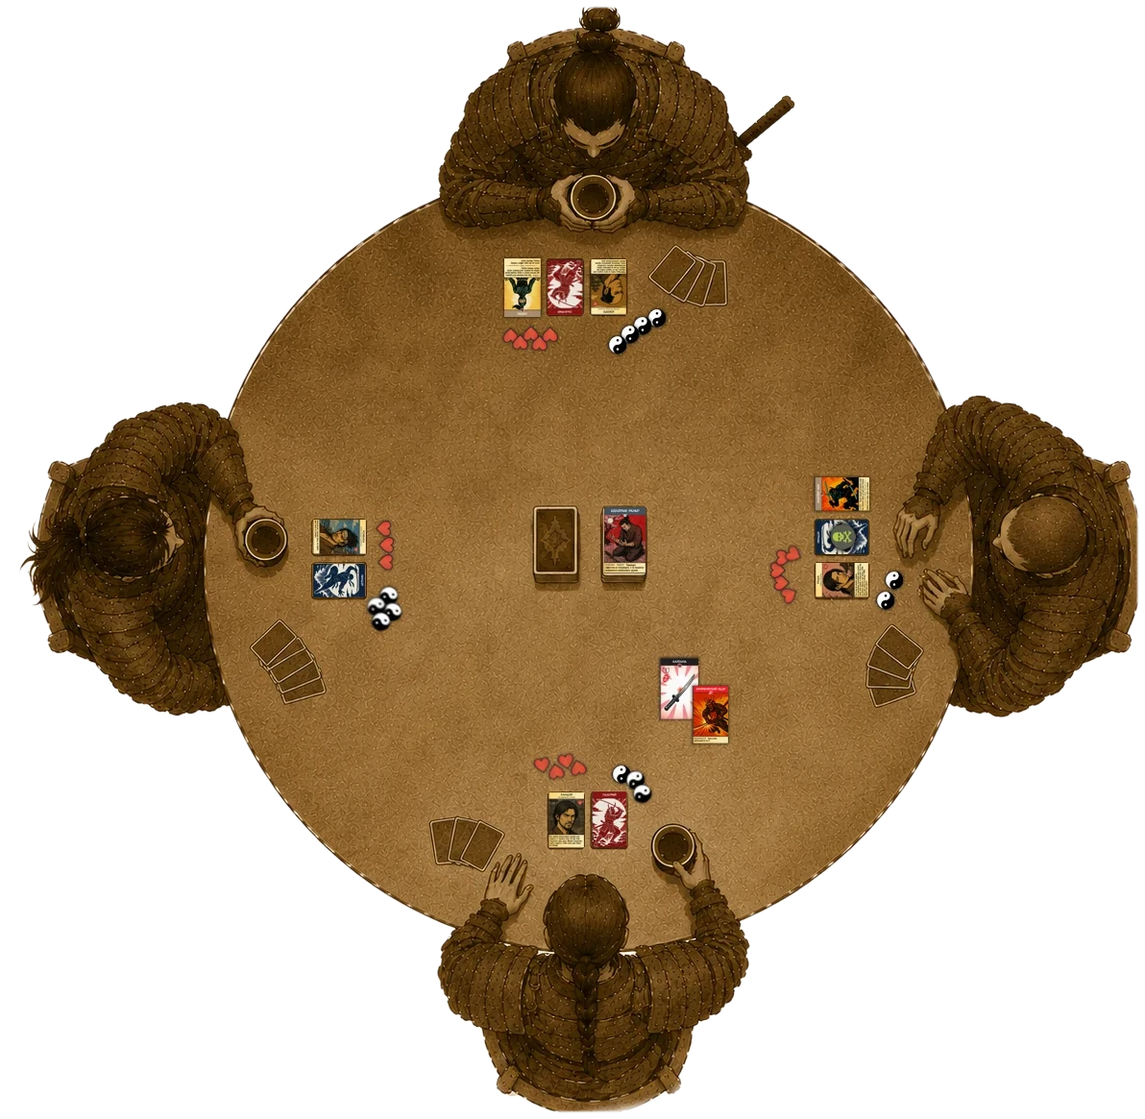
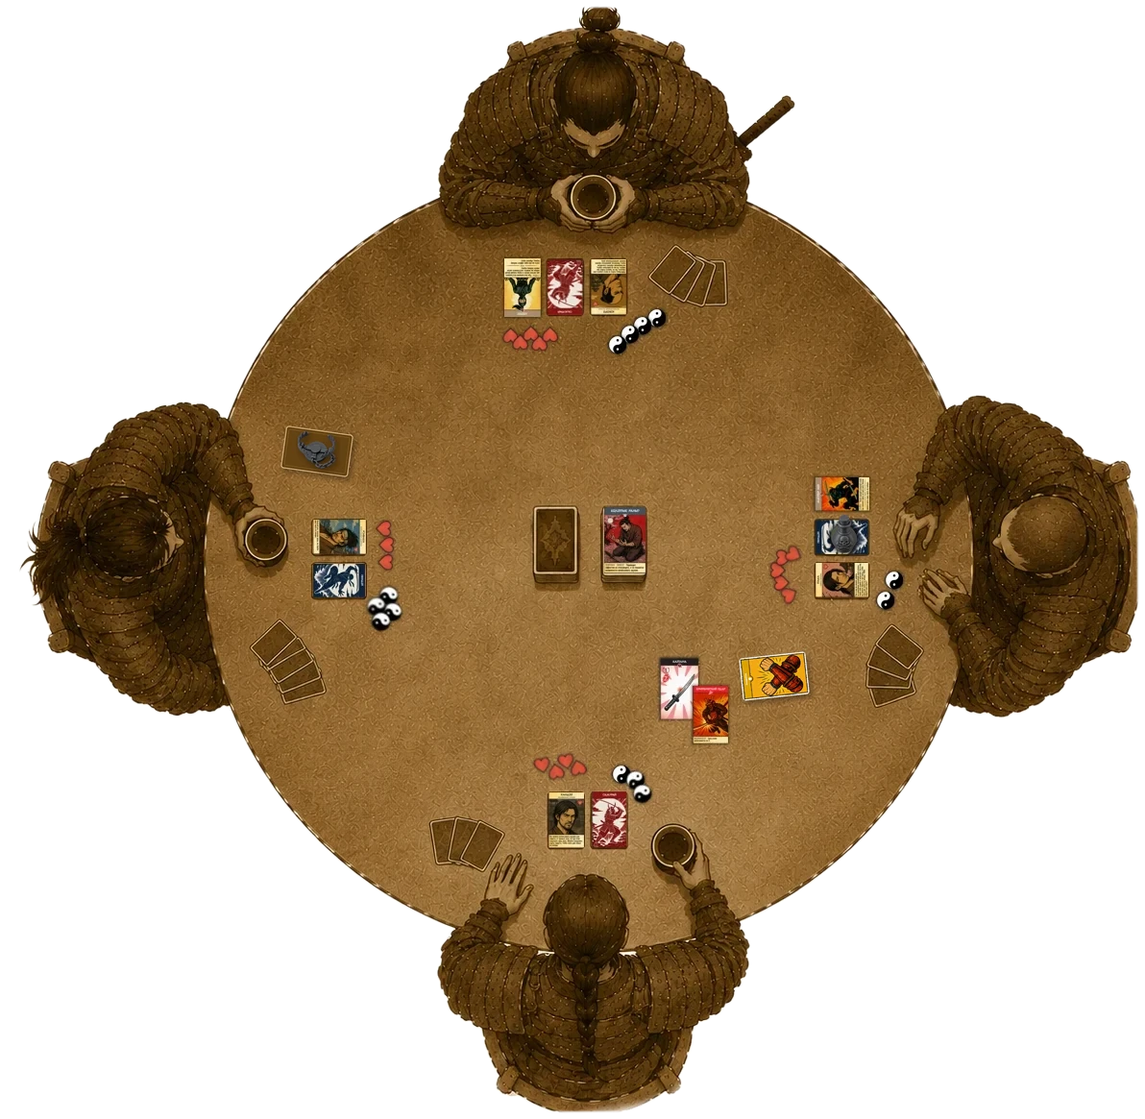
Стол: бутылка яда, карта защиты и ловушка с капканом дорисованы на картинке
Жетон яда на карте роли правого игрока заменён фигуркой-бутылкой (в игре
это 3D-фигурка), подпись «Яд». У него же рядом с выложенной атакой лежит
«Защита» (превью карты 48). У левого игрока — ловушка: рубашка с фигуркой
капкана. Фигурки сгенерированы /img с альфой, смонтированы поверх фото
в 4× с поворотом до уменьшения; исходник без дорисовок —
rules/media/obsolete/table-v1.webp. Текст под рисунком обновлён: без
примера осталась только аура.

Changed region(s): [[0.6208, 0.5871, 0.7139, 0.6489], [0.2483, 0.3708, 0.3104, 0.4326], [0.7139, 0.4635, 0.745, 0.4944]]

diff --git a/rules/rules.html b/rules/rules.html
@@ -90,10 +90,10 @@
           <h2 class="chapter-title">Стол<span class="kanji" aria-hidden="true">卓</span></h2>
 <p>Так выглядит стол в середине партии на четверых: у каждого игрока перед собой своя зона, посреди стола — общие стопки. Игроки сидят через одного, поэтому напротив — союзник, а по бокам — противники.</p>
 <figure class="table-figure">
-        <div class="table-pic"><img src="media/table.webp" alt="" width="1192" height="1165"><svg class="table-overlay" viewBox="0 0 1192 1165" xmlns="http://www.w3.org/2000/svg" aria-hidden="true"><defs><marker id="tf-arrow" viewBox="0 0 10 10" refX="9" refY="5" markerWidth="5" markerHeight="5" orient="auto-start-reverse"><path d="M0,0 L10,5 L0,10 z"/></marker></defs><g class="tf-lines"><line x1="480" y1="300" x2="515" y2="300"/><line x1="598" y1="402" x2="593" y2="335"/><line x1="818" y1="357" x2="760" y2="315"/><line x1="408" y1="473" x2="365" y2="532"/><line x1="521" y1="523" x2="560" y2="565"/><line x1="692" y1="513" x2="672" y2="530"/><line x1="815" y1="463" x2="855" y2="500"/><line x1="636" y1="715" x2="688" y2="712"/><line x1="476" y1="793" x2="565" y2="800"/><line x1="704" y1="812" x2="683" y2="812"/></g><g class="tf-labels"><g transform="translate(376,277)"><rect width="104" height="46" rx="8"/><text class="tf-txt" x="52.0" y="24.0">Стойка</text></g><g transform="translate(523,402)"><rect width="154" height="46" rx="8"/><text class="tf-txt" x="77.0" y="24.0">Карта роли</text></g><g transform="translate(810,357)"><rect width="79" height="46" rx="8"/><text class="tf-txt" x="39.5" y="24.0">Рука</text></g><g transform="translate(360,427)"><rect width="129" height="46" rx="8"/><text class="tf-txt" x="64.5" y="24.0">Персонаж</text></g><g transform="translate(448,477)"><rect width="104" height="46" rx="8"/><text class="tf-txt" x="52.0" y="24.0">Колода</text></g><g transform="translate(674,467)"><rect width="92" height="46" rx="8"/><text class="tf-txt" x="46.0" y="24.0">Сброс</text></g><g transform="translate(732,417)"><rect width="116" height="46" rx="8"/><text class="tf-txt" x="58.0" y="24.0">Эффекты</text></g><g transform="translate(444,682)"><rect width="191" height="76" rx="8"/><text class="tf-txt" x="95.5" y="24.0">Атака: оружие</text><text class="tf-txt" x="95.5" y="54.0">+ модификатор</text></g><g transform="translate(384,767)"><rect width="92" height="46" rx="8"/><text class="tf-txt" x="46.0" y="24.0">Жизни</text></g><g transform="translate(704,789)"><rect width="191" height="46" rx="8"/><text class="tf-txt" x="95.5" y="24.0">Победные очки</text></g></g><g class="tf-tags"><g transform="translate(802,127)"><rect width="116" height="46" rx="23"/><text x="58.0" y="24.0">Самурай</text></g><g transform="translate(1028,372)"><rect width="104" height="46" rx="23"/><text x="52.0" y="24.0">Ниндзя</text></g><g transform="translate(702,1037)"><rect width="116" height="46" rx="23"/><text x="58.0" y="24.0">Самурай</text></g><g transform="translate(88,377)"><rect width="104" height="46" rx="23"/><text x="52.0" y="24.0">Ниндзя</text></g></g></svg></div>
+        <div class="table-pic"><img src="media/table.webp" alt="" width="1192" height="1165"><svg class="table-overlay" viewBox="0 0 1192 1165" xmlns="http://www.w3.org/2000/svg" aria-hidden="true"><defs><marker id="tf-arrow" viewBox="0 0 10 10" refX="9" refY="5" markerWidth="5" markerHeight="5" orient="auto-start-reverse"><path d="M0,0 L10,5 L0,10 z"/></marker></defs><g class="tf-lines"><line x1="480" y1="300" x2="515" y2="300"/><line x1="598" y1="402" x2="593" y2="335"/><line x1="818" y1="357" x2="760" y2="315"/><line x1="340" y1="421" x2="335" y2="448"/><line x1="430" y1="473" x2="365" y2="532"/><line x1="521" y1="523" x2="560" y2="565"/><line x1="692" y1="513" x2="672" y2="530"/><line x1="815" y1="463" x2="855" y2="500"/><line x1="827" y1="545" x2="862" y2="552"/><line x1="825" y1="673" x2="815" y2="688"/><line x1="636" y1="715" x2="688" y2="712"/><line x1="476" y1="793" x2="565" y2="800"/><line x1="704" y1="812" x2="683" y2="812"/></g><g class="tf-labels"><g transform="translate(376,277)"><rect width="104" height="46" rx="8"/><text class="tf-txt" x="52.0" y="24.0">Стойка</text></g><g transform="translate(523,402)"><rect width="154" height="46" rx="8"/><text class="tf-txt" x="77.0" y="24.0">Карта роли</text></g><g transform="translate(810,357)"><rect width="79" height="46" rx="8"/><text class="tf-txt" x="39.5" y="24.0">Рука</text></g><g transform="translate(287,375)"><rect width="116" height="46" rx="8"/><text class="tf-txt" x="58.0" y="24.0">Ловушка</text></g><g transform="translate(390,427)"><rect width="129" height="46" rx="8"/><text class="tf-txt" x="64.5" y="24.0">Персонаж</text></g><g transform="translate(448,477)"><rect width="104" height="46" rx="8"/><text class="tf-txt" x="52.0" y="24.0">Колода</text></g><g transform="translate(674,467)"><rect width="92" height="46" rx="8"/><text class="tf-txt" x="46.0" y="24.0">Сброс</text></g><g transform="translate(732,417)"><rect width="116" height="46" rx="8"/><text class="tf-txt" x="58.0" y="24.0">Эффекты</text></g><g transform="translate(773,517)"><rect width="54" height="46" rx="8"/><text class="tf-txt" x="27.0" y="24.0">Яд</text></g><g transform="translate(788,627)"><rect width="104" height="46" rx="8"/><text class="tf-txt" x="52.0" y="24.0">Защита</text></g><g transform="translate(444,682)"><rect width="191" height="76" rx="8"/><text class="tf-txt" x="95.5" y="24.0">Атака: оружие</text><text class="tf-txt" x="95.5" y="54.0">+ модификатор</text></g><g transform="translate(384,767)"><rect width="92" height="46" rx="8"/><text class="tf-txt" x="46.0" y="24.0">Жизни</text></g><g transform="translate(704,789)"><rect width="191" height="46" rx="8"/><text class="tf-txt" x="95.5" y="24.0">Победные очки</text></g></g><g class="tf-tags"><g transform="translate(802,127)"><rect width="116" height="46" rx="23"/><text x="58.0" y="24.0">Самурай</text></g><g transform="translate(1028,372)"><rect width="104" height="46" rx="23"/><text x="52.0" y="24.0">Ниндзя</text></g><g transform="translate(702,1037)"><rect width="116" height="46" rx="23"/><text x="58.0" y="24.0">Самурай</text></g><g transform="translate(88,377)"><rect width="104" height="46" rx="23"/><text x="52.0" y="24.0">Ниндзя</text></g></g></svg></div>
         <figcaption>Стол на четверых: самурай — ниндзя — самурай — ниндзя.</figcaption>
       </figure>
-<p class="table-note">Ловушка кладётся перед собой рубашкой вверх с фигуркой на ней, аура — перед собой в открытую; на этой картинке их нет.</p>
+<p class="table-note">Ловушка кладётся перед собой рубашкой вверх, сверху — фигурка капкана; яд отмечают фигуркой-бутылкой на карте роли. Аура кладётся перед собой в открытую; на этой картинке её нет.</p>
         </div>
       </section>
       </div>

diff --git a/rules/rules-en.html b/rules/rules-en.html
@@ -90,10 +90,10 @@
           <h2 class="chapter-title">The Table<span class="kanji" aria-hidden="true">卓</span></h2>
 <p>This is what a four-player table looks like mid-game: every player has their own area in front of them, and the shared piles sit in the middle. Seats alternate, so the player opposite is your ally and the players on either side are enemies.</p>
 <figure class="table-figure">
-        <div class="table-pic"><img src="media/table.webp" alt="" width="1192" height="1165"><svg class="table-overlay" viewBox="0 0 1192 1165" xmlns="http://www.w3.org/2000/svg" aria-hidden="true"><defs><marker id="tf-arrow" viewBox="0 0 10 10" refX="9" refY="5" markerWidth="5" markerHeight="5" orient="auto-start-reverse"><path d="M0,0 L10,5 L0,10 z"/></marker></defs><g class="tf-lines"><line x1="480" y1="300" x2="515" y2="300"/><line x1="598" y1="402" x2="593" y2="335"/><line x1="818" y1="357" x2="760" y2="315"/><line x1="408" y1="473" x2="365" y2="532"/><line x1="521" y1="523" x2="560" y2="565"/><line x1="692" y1="513" x2="672" y2="530"/><line x1="815" y1="463" x2="855" y2="500"/><line x1="642" y1="715" x2="688" y2="712"/><line x1="470" y1="793" x2="565" y2="800"/><line x1="698" y1="812" x2="683" y2="812"/></g><g class="tf-labels"><g transform="translate(376,277)"><rect width="104" height="46" rx="8"/><text class="tf-txt" x="52.0" y="24.0">Stance</text></g><g transform="translate(530,402)"><rect width="141" height="46" rx="8"/><text class="tf-txt" x="70.5" y="24.0">Role card</text></g><g transform="translate(810,357)"><rect width="79" height="46" rx="8"/><text class="tf-txt" x="39.5" y="24.0">Hand</text></g><g transform="translate(354,427)"><rect width="141" height="46" rx="8"/><text class="tf-txt" x="70.5" y="24.0">Character</text></g><g transform="translate(460,477)"><rect width="79" height="46" rx="8"/><text class="tf-txt" x="39.5" y="24.0">Deck</text></g><g transform="translate(662,467)"><rect width="116" height="46" rx="8"/><text class="tf-txt" x="58.0" y="24.0">Discard</text></g><g transform="translate(732,417)"><rect width="116" height="46" rx="8"/><text class="tf-txt" x="58.0" y="24.0">Effects</text></g><g transform="translate(438,682)"><rect width="203" height="76" rx="8"/><text class="tf-txt" x="101.5" y="24.0">Attack: weapon</text><text class="tf-txt" x="101.5" y="54.0">+ modifier</text></g><g transform="translate(390,767)"><rect width="79" height="46" rx="8"/><text class="tf-txt" x="39.5" y="24.0">Life</text></g><g transform="translate(698,789)"><rect width="203" height="46" rx="8"/><text class="tf-txt" x="101.5" y="24.0">Victory points</text></g></g><g class="tf-tags"><g transform="translate(802,127)"><rect width="116" height="46" rx="23"/><text x="58.0" y="24.0">Samurai</text></g><g transform="translate(1034,372)"><rect width="92" height="46" rx="23"/><text x="46.0" y="24.0">Ninja</text></g><g transform="translate(702,1037)"><rect width="116" height="46" rx="23"/><text x="58.0" y="24.0">Samurai</text></g><g transform="translate(94,377)"><rect width="92" height="46" rx="23"/><text x="46.0" y="24.0">Ninja</text></g></g></svg></div>
+        <div class="table-pic"><img src="media/table.webp" alt="" width="1192" height="1165"><svg class="table-overlay" viewBox="0 0 1192 1165" xmlns="http://www.w3.org/2000/svg" aria-hidden="true"><defs><marker id="tf-arrow" viewBox="0 0 10 10" refX="9" refY="5" markerWidth="5" markerHeight="5" orient="auto-start-reverse"><path d="M0,0 L10,5 L0,10 z"/></marker></defs><g class="tf-lines"><line x1="480" y1="300" x2="515" y2="300"/><line x1="598" y1="402" x2="593" y2="335"/><line x1="818" y1="357" x2="760" y2="315"/><line x1="340" y1="421" x2="335" y2="448"/><line x1="430" y1="473" x2="365" y2="532"/><line x1="521" y1="523" x2="560" y2="565"/><line x1="692" y1="513" x2="672" y2="530"/><line x1="815" y1="463" x2="855" y2="500"/><line x1="852" y1="550" x2="862" y2="552"/><line x1="825" y1="673" x2="815" y2="688"/><line x1="642" y1="715" x2="688" y2="712"/><line x1="470" y1="793" x2="565" y2="800"/><line x1="698" y1="812" x2="683" y2="812"/></g><g class="tf-labels"><g transform="translate(376,277)"><rect width="104" height="46" rx="8"/><text class="tf-txt" x="52.0" y="24.0">Stance</text></g><g transform="translate(530,402)"><rect width="141" height="46" rx="8"/><text class="tf-txt" x="70.5" y="24.0">Role card</text></g><g transform="translate(810,357)"><rect width="79" height="46" rx="8"/><text class="tf-txt" x="39.5" y="24.0">Hand</text></g><g transform="translate(306,375)"><rect width="79" height="46" rx="8"/><text class="tf-txt" x="39.5" y="24.0">Trap</text></g><g transform="translate(384,427)"><rect width="141" height="46" rx="8"/><text class="tf-txt" x="70.5" y="24.0">Character</text></g><g transform="translate(460,477)"><rect width="79" height="46" rx="8"/><text class="tf-txt" x="39.5" y="24.0">Deck</text></g><g transform="translate(662,467)"><rect width="116" height="46" rx="8"/><text class="tf-txt" x="58.0" y="24.0">Discard</text></g><g transform="translate(732,417)"><rect width="116" height="46" rx="8"/><text class="tf-txt" x="58.0" y="24.0">Effects</text></g><g transform="translate(748,517)"><rect width="104" height="46" rx="8"/><text class="tf-txt" x="52.0" y="24.0">Poison</text></g><g transform="translate(782,627)"><rect width="116" height="46" rx="8"/><text class="tf-txt" x="58.0" y="24.0">Defense</text></g><g transform="translate(438,682)"><rect width="203" height="76" rx="8"/><text class="tf-txt" x="101.5" y="24.0">Attack: weapon</text><text class="tf-txt" x="101.5" y="54.0">+ modifier</text></g><g transform="translate(390,767)"><rect width="79" height="46" rx="8"/><text class="tf-txt" x="39.5" y="24.0">Life</text></g><g transform="translate(698,789)"><rect width="203" height="46" rx="8"/><text class="tf-txt" x="101.5" y="24.0">Victory points</text></g></g><g class="tf-tags"><g transform="translate(802,127)"><rect width="116" height="46" rx="23"/><text x="58.0" y="24.0">Samurai</text></g><g transform="translate(1034,372)"><rect width="92" height="46" rx="23"/><text x="46.0" y="24.0">Ninja</text></g><g transform="translate(702,1037)"><rect width="116" height="46" rx="23"/><text x="58.0" y="24.0">Samurai</text></g><g transform="translate(94,377)"><rect width="92" height="46" rx="23"/><text x="46.0" y="24.0">Ninja</text></g></g></svg></div>
         <figcaption>A table for four: samurai — ninja — samurai — ninja.</figcaption>
       </figure>
-<p class="table-note">A trap is placed face down in front of you with the figure on top; an aura goes face up in front of you. Neither is shown in this picture.</p>
+<p class="table-note">A trap is placed face down in front of you with the trap figure on top; poison is marked by a bottle figure on the role card. An aura goes face up in front of you; it is not shown in this picture.</p>
         </div>
       </section>
       </div>

diff --git a/tools/table_fig.py b/tools/table_fig.py
@@ -15,17 +15,24 @@ W, H = 1192, 1165
 # стрелки короткие. Ориентиры (пиксели картинки): круг стола — центр (600,585),
 # радиус ~375; верхний игрок: стойка (540,300), роль (593,300), сердца (555,350),
 # очки (665,345), рука (720,290); левый: персонаж (355,555), роль (355,605);
-# правый: столбик эффектов (878,515…605); нижний: сердца (585,800),
-# очки (655,810), персонаж (587,855); центр: колода (578,565), сброс (650,565);
-# атака (705,715)+(740,740).
+# правый: столбик эффектов (878,515…605), бутылка яда на карте роли (879,556),
+# карта защиты (806,704); нижний: сердца (585,800), очки (655,810), персонаж
+# (587,855); центр: колода (578,565), сброс (650,565); атака (705,715)+(740,740);
+# ловушка левого игрока — рубашка с капканом (330,470).
+# Бутылка, капкан и карта защиты дорисованы поверх фото (rules/media/obsolete/
+# table-v1.webp — исходник без них) скриптом-монтажом: фигурки — /img, карта —
+# превью 48.webp; слои строились в 4× и поворачивались до уменьшения.
 LABELS = [
     ('stance',    (428, 300), (515, 300)),    # слева от стойки, у кромки
     ('role',      (600, 425), (593, 335)),    # под картами верхнего игрока
     ('hand',      (850, 380), (760, 315)),    # справа-снизу от веера
-    ('character', (425, 450), (365, 532)),    # верхняя левая четверть
+    ('trap',      (345, 398), (335, 448)),    # над ловушкой левого игрока
+    ('character', (455, 450), (365, 532)),    # верхняя левая четверть
     ('deck',      (500, 500), (560, 565)),    # слева-сверху от колоды
     ('discard',   (720, 490), (672, 530)),    # справа-сверху от сброса
     ('effect',    (790, 440), (855, 500)),    # над столбиком эффектов
+    ('poison',    (800, 540), (862, 552)),    # бутылка яда на карте роли
+    ('defense',   (840, 650), (815, 688)),    # карта защиты у атаки
     ('attack',    (540, 720), (688, 712)),    # слева от выложенной атаки
     ('life',      (430, 790), (565, 800)),    # слева от сердец нижнего игрока
     ('vp',        (800, 812), (683, 812)),    # справа от очков нижнего игрока
@@ -38,6 +45,7 @@ TXT = {
   'stance': 'Стойка', 'role': 'Карта роли', 'deck': 'Колода', 'character': 'Персонаж',
   'hand': 'Рука', 'discard': 'Сброс', 'effect': 'Эффекты', 'life': 'Жизни',
   'vp': 'Победные очки', 'attack': 'Атака: оружие|+ модификатор',
+  'poison': 'Яд', 'defense': 'Защита', 'trap': 'Ловушка',
   'samurai': 'Самурай', 'ninja': 'Ниндзя',
   'h4': 'Стол',
   'intro': 'Так выглядит стол в середине партии на четверых: у каждого игрока перед собой своя зона, посреди стола — общие стопки. Игроки сидят через одного, поэтому напротив — союзник, а по бокам — противники.',
@@ -53,13 +61,14 @@ TXT = {
    ('discard',   'рядом с колодой, картинкой вверх. Из сброса карты не возвращаются.'),
    ('attack',    'оружие и модификатор выкладываются на стол в сторону цели, после расчёта уходят в сброс.'),
   ],
-  'outro': 'Ловушка кладётся перед собой рубашкой вверх с фигуркой на ней, аура — перед собой в открытую; на этой картинке их нет.',
+  'outro': 'Ловушка кладётся перед собой рубашкой вверх, сверху — фигурка капкана; яд отмечают фигуркой-бутылкой на карте роли. Аура кладётся перед собой в открытую; на этой картинке её нет.',
   'caption': 'Стол на четверых: самурай — ниндзя — самурай — ниндзя.',
  },
  'en': {
   'stance': 'Stance', 'role': 'Role card', 'deck': 'Deck', 'character': 'Character',
   'hand': 'Hand', 'discard': 'Discard', 'effect': 'Effects', 'life': 'Life',
   'vp': 'Victory points', 'attack': 'Attack: weapon|+ modifier',
+  'poison': 'Poison', 'defense': 'Defense', 'trap': 'Trap',
   'samurai': 'Samurai', 'ninja': 'Ninja',
   'h4': 'The Table',
   'intro': 'This is what a four-player table looks like mid-game: every player has their own area in front of them, and the shared piles sit in the middle. Seats alternate, so the player opposite is your ally and the players on either side are enemies.',
@@ -75,7 +84,7 @@ TXT = {
    ('discard',   'next to the deck, face up. Cards never come back from the discard.'),
    ('attack',    'weapon and modifier are laid on the table towards the target; once resolved they go to the discard.'),
   ],
-  'outro': 'A trap is placed face down in front of you with the figure on top; an aura goes face up in front of you. Neither is shown in this picture.',
+  'outro': 'A trap is placed face down in front of you with the trap figure on top; poison is marked by a bottle figure on the role card. An aura goes face up in front of you; it is not shown in this picture.',
   'caption': 'A table for four: samurai — ninja — samurai — ninja.',
  },
 }

diff --git a/CLAUDE.md b/CLAUDE.md
@@ -323,7 +323,9 @@ diff'у мучительно. Место дешевле времени.
   с альфой, сгенерированы `/img` одним стилевым хвостом промпта (sumi-e,
   сепия, прозрачный фон). Непрозрачность — `--bg-opacity` в CSS.
 - **Стол во время партии** — `rules/media/table.webp` (фото стола, белый
-  фон вырезан в прозрачность) + SVG-слой со стрелками и подписями из
+  фон вырезан в прозрачность; бутылка яда, капкан на рубашке и карта
+  защиты дорисованы поверх, исходник без них — `media/obsolete/table-v1.webp`)
+  + SVG-слой со стрелками и подписями из
   `tools/table_fig.py`; координаты в пикселях картинки, общие для RU/EN,
   тексты подписей — в словаре `TXT` там же. Подписи стоят внутри стола,
   в свободных местах рядом со своим предметом, стрелки короткие; «|» в
